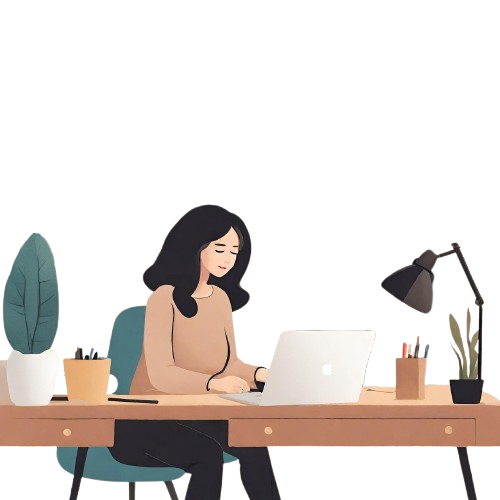
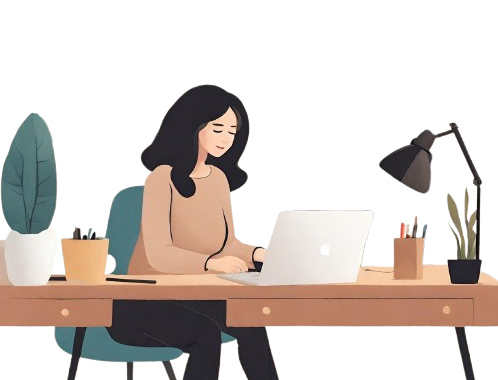
update changes

diff --git a/assets/css/style.css b/assets/css/style.css
@@ -428,6 +428,8 @@ main {
   .home-section .home-image svg image {
     width: 100%; }
 
+
+
 .home-section .home-intro h6 {
   font-weight: 600;
   text-transform: uppercase;
@@ -828,6 +830,8 @@ main {
   position: relative;
   z-index: 1;
   padding: 7px; }
+
+
   .home-section-02 .home-image:after {
     content: "";
     position: absolute;

diff --git a/index.php b/index.php
@@ -83,7 +83,7 @@
                     </div>
                     <div class="col-lg-5">
                         <div class="home-image">
-                            <img src="assets/img/bg1.png" title="" alt="" style="width: 100%;-webkit-transform: scaleX(-1); transform: scaleX(-1);margin-top: -112px;">
+                            <img src="assets/img/bg1.png" title="" alt="" style="width: 100%;-webkit-transform: scaleX(-1); transform: scaleX(-1);">
                         </div>
                     </div>
                 </div>
